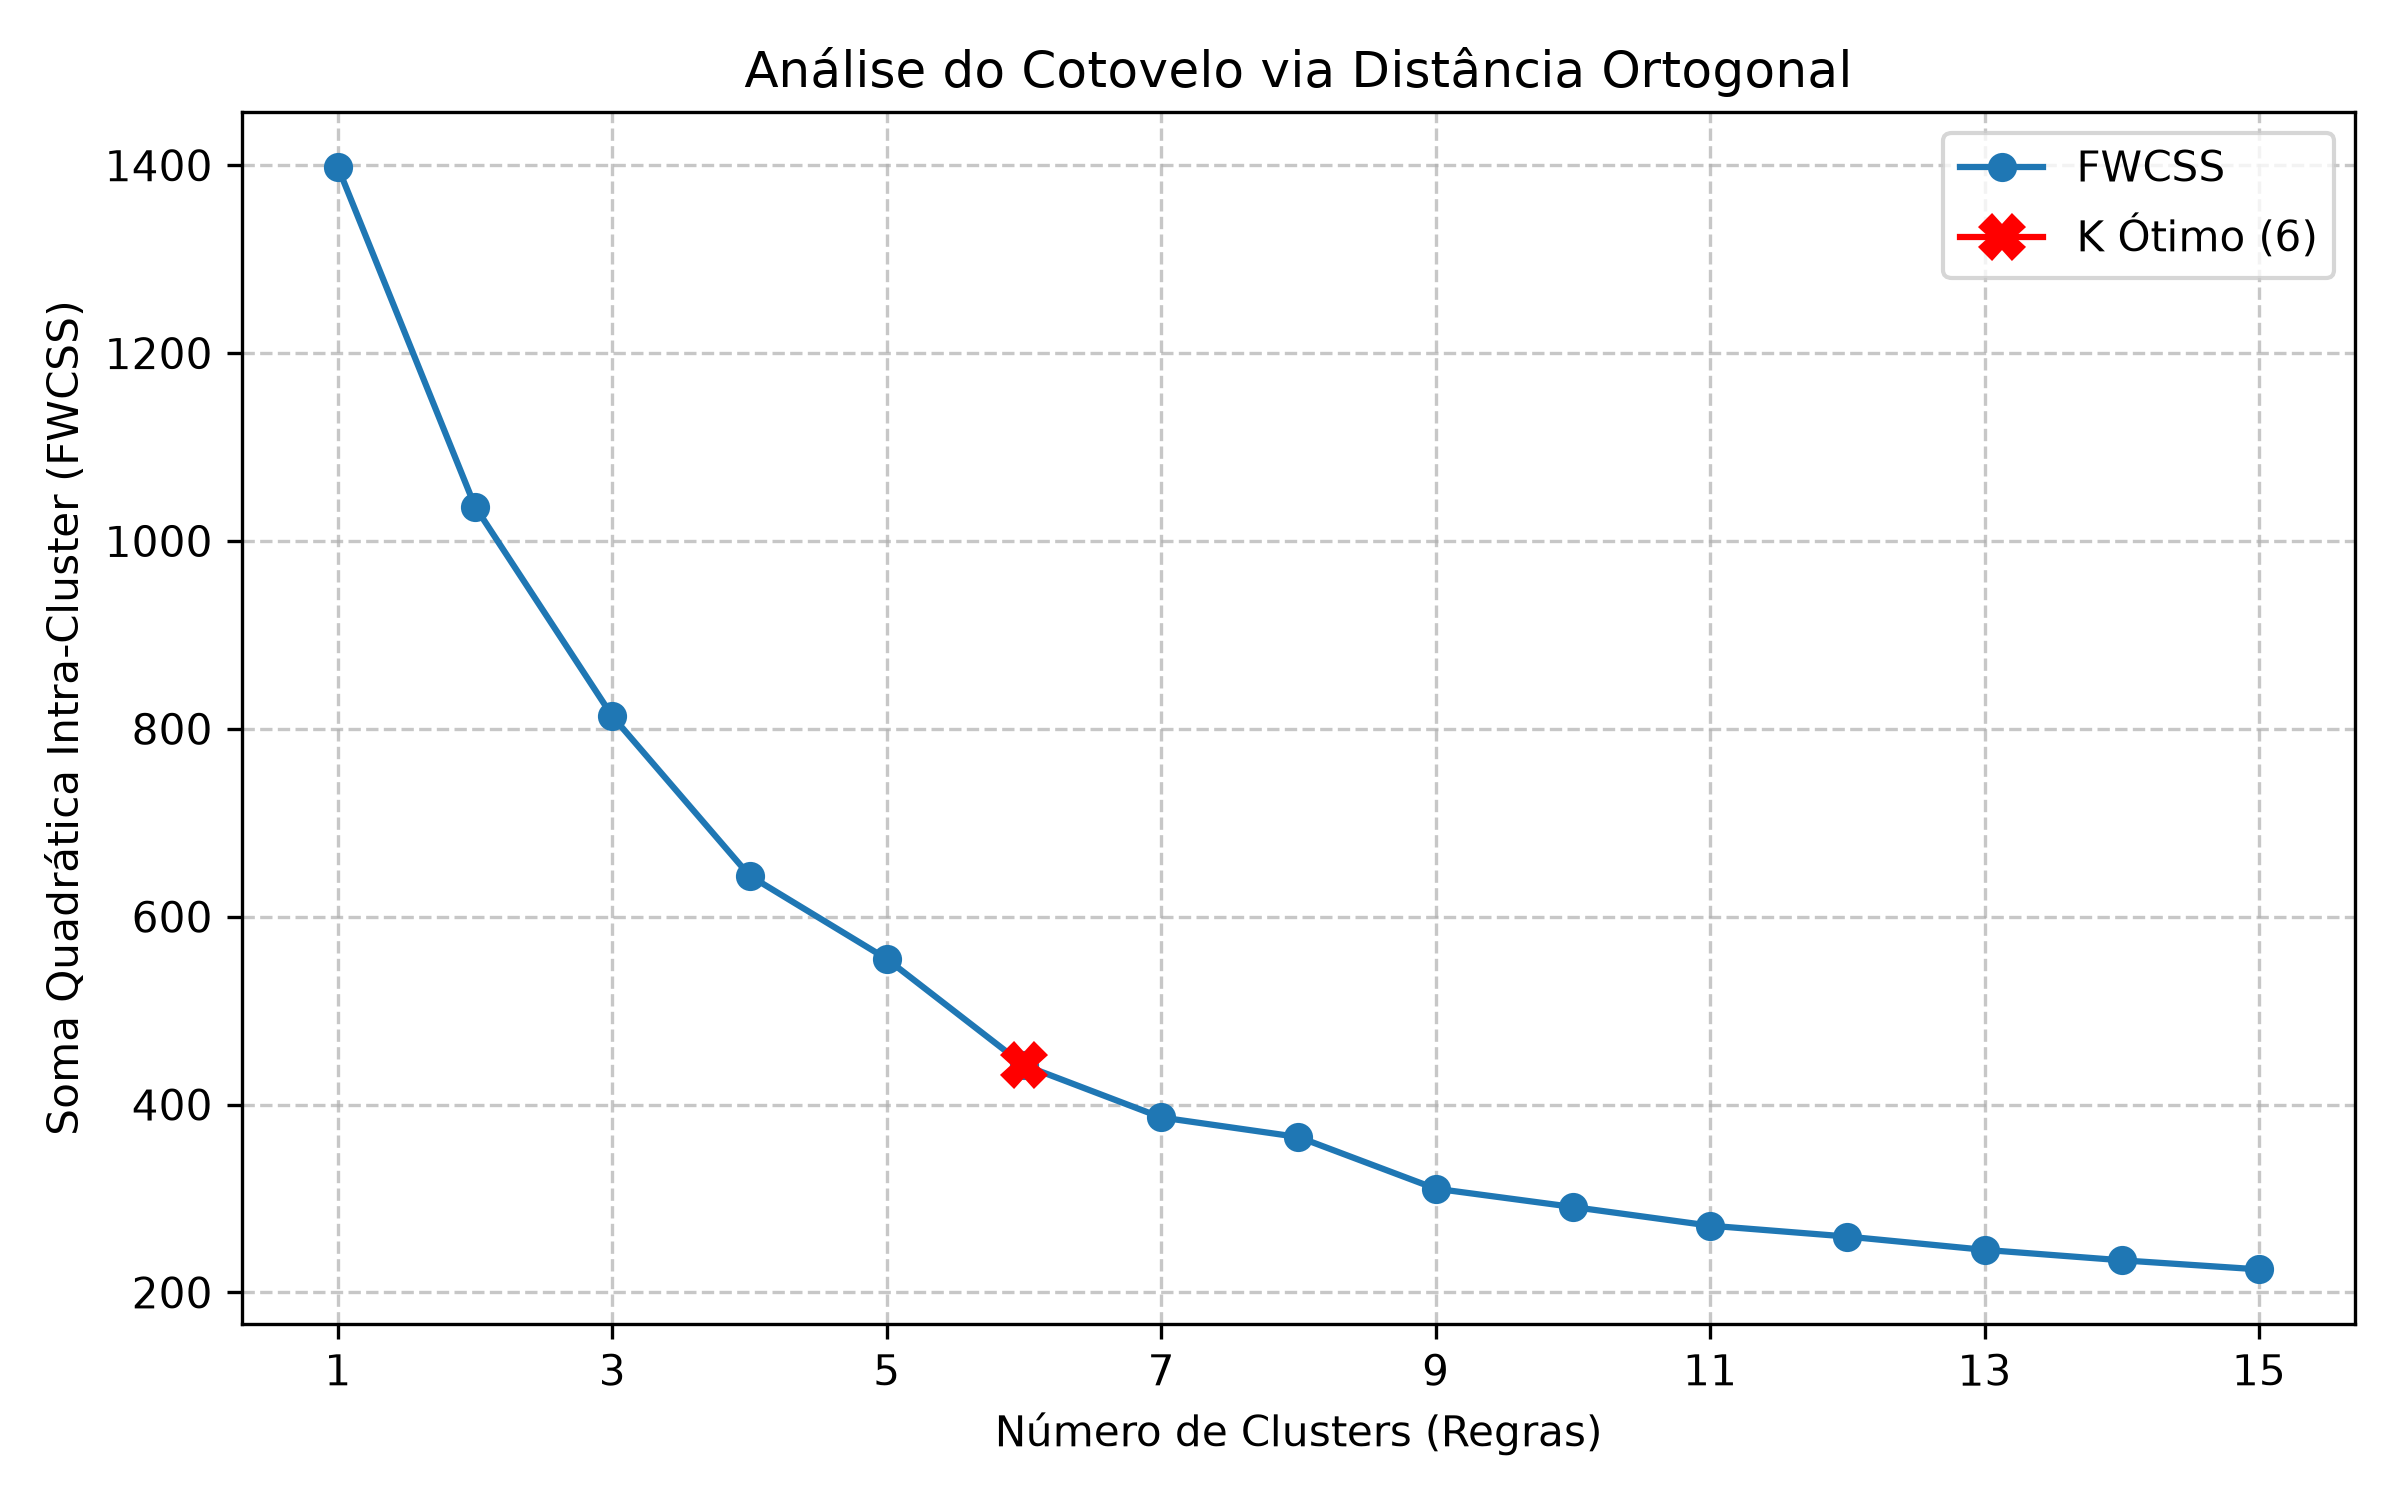
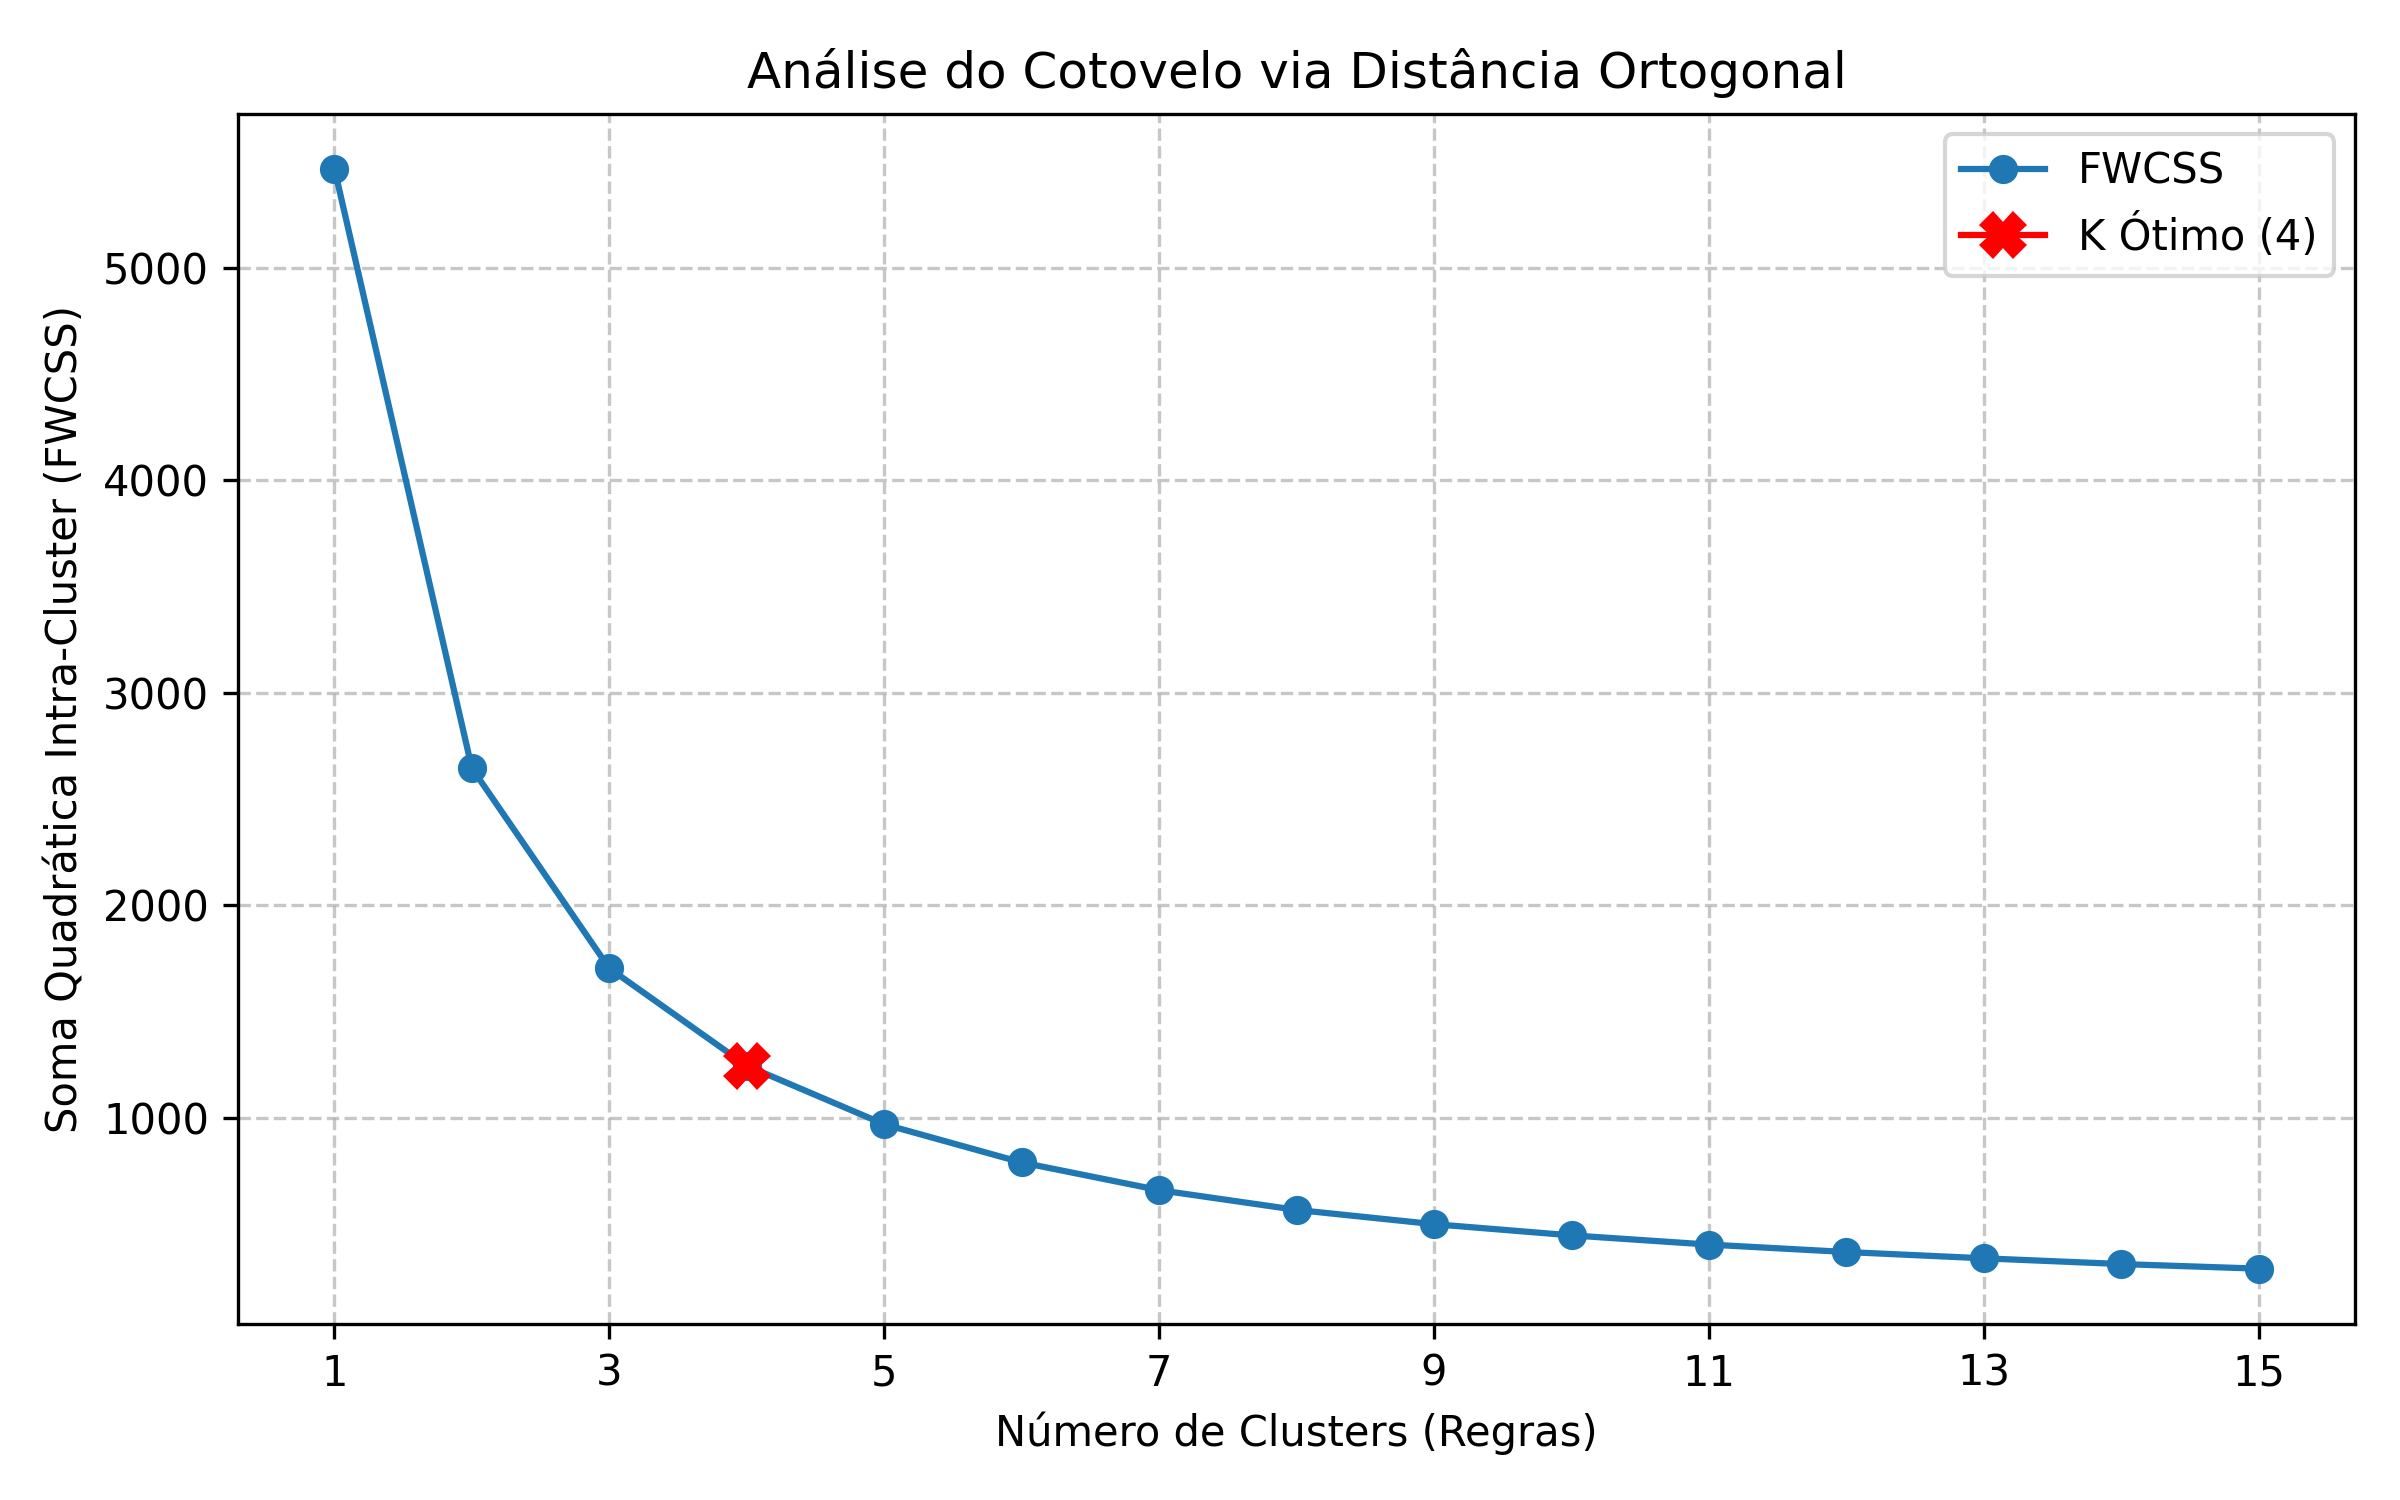
Substitui KMeans classico por FCM (nao sei pq fiz Kmeans qnd o artigo deixa claro q eh FCM)

diff --git a/src/rule_trainer.py b/src/rule_trainer.py
@@ -2,7 +2,6 @@ import csv
 import logging
 import numpy as np
 import pandas as pd
-from sklearn.cluster import KMeans
 from sklearn.preprocessing import StandardScaler, MinMaxScaler
 import skfuzzy as fuzz
 
@@ -53,14 +52,18 @@ class NeuroFuzzyTrainer:
         return df_final
 
     def _find_optimal_k(self, X_scaled: np.ndarray) -> int:
-        logger.info(f"Avaliando K ótimo (limite {self.max_clusters}) via cotovelo ortogonal...")
+        logger.info(f"Avaliando K ótimo (limite {self.max_clusters}) via cotovelo ortogonal (FCM)...")
         wcss = []
         cluster_range = range(1, self.max_clusters + 1)
         
+        # O FCM do skfuzzy exige a matriz transposta: (features, amostras)
+        alldata = X_scaled.T
+        
         for k in cluster_range:
-            kmeans = KMeans(n_clusters=k, init='k-means++', random_state=42, n_init='auto')
-            kmeans.fit(X_scaled)
-            wcss.append(kmeans.inertia_)
+            cntr, u, u0, d, jm, p, fpc = fuzz.cluster.cmeans(
+                alldata, c=k, m=2.0, error=1e-5, maxiter=1000, init=None
+            )
+            wcss.append(jm[-1])
 
         k_norm = MinMaxScaler().fit_transform(np.array(cluster_range).reshape(-1, 1))
         wcss_norm = MinMaxScaler().fit_transform(np.array(wcss).reshape(-1, 1))
@@ -78,12 +81,12 @@ class NeuroFuzzyTrainer:
         k_opt = cluster_range[np.argmax(distancias)]
         
         try:
-            from plotter import plot_metodo_cotovelo
-            plot_metodo_cotovelo(list(cluster_range), wcss, k_opt, "fig_grafico_cotovelo.png")
+            from plotter import plot_elbow
+            plot_elbow(list(cluster_range), wcss, k_opt, "elbow_plot.png")
         except ImportError:
             pass
             
-        logger.info(f"Convergência concluída. K ótimo: {k_opt} regras.")
+        logger.info(f"Convergência do FCM concluída. K ótimo: {k_opt} regras.")
         return k_opt
 
     def _translate_to_fuzzy(self, variable_name: str, value: float) -> str:
@@ -95,7 +98,7 @@ class NeuroFuzzyTrainer:
         return max(memberships, key=memberships.get)
 
     def train_and_export(self, output_csv_path: str, target: str, base_csv_path: str):
-        logger.info(f"Iniciando pipeline Neurofuzzy para: {target.upper()}")
+        logger.info(f"Iniciando pipeline Neurofuzzy (FCM) para: {target.upper()}")
         
         df = self.generate_synthetic_data(num_scenarios=2000)
         
@@ -110,9 +113,15 @@ class NeuroFuzzyTrainer:
         
         k_opt = self._find_optimal_k(X_scaled)
         
-        kmeans = KMeans(n_clusters=k_opt, random_state=42, n_init=10)
-        kmeans.fit(X_scaled)
-        centers = scaler.inverse_transform(kmeans.cluster_centers_)
+        logger.info("Extraindo matriz de centroides via Fuzzy C-Means...")
+        alldata = X_scaled.T
+        cntr, u, u0, d, jm, p, fpc = fuzz.cluster.cmeans(
+            alldata, c=k_opt, m=2.0, error=1e-5, maxiter=1000, init=None
+        )
+        
+        centers = scaler.inverse_transform(cntr)
+        
+        labels = np.argmax(u, axis=0) 
         
         extracted_rules = []
         
@@ -135,7 +144,7 @@ class NeuroFuzzyTrainer:
                 vel_term = self._translate_to_fuzzy('velocidade', center[2])
                 antecedents_str = f"altitude=={alt_term}|taxa_descida=={td_term}|velocidade=={vel_term}"
             
-            mean_output = df[kmeans.labels_ == i][target].mean()
+            mean_output = df[labels == i][target].mean()
             out_term = self._translate_to_fuzzy(target, mean_output)
             
             rule_dict = {

diff --git a/src/fuzzy_engine.py b/src/fuzzy_engine.py
@@ -84,15 +84,22 @@ class HarpiaFuzzyEngine:
             'vento_traves': vento_traves
         }
         
+        # LEME 
         for key, value in telemetry.items():
             try:
                 self.sim_rudder.input[key] = value
             except ValueError:
                 pass
                 
-        self.sim_rudder.compute()
-        rudder_output = self.sim_rudder.output['comando_leme']
-        
+        try:
+            self.sim_rudder.compute()
+            rudder_output = self.sim_rudder.output['comando_leme']
+        except (ValueError, KeyError):
+            # Fail-safe: Se o avião cair num edge case não mapeado, 
+            # o leme assume a posição neutra (0.0)
+            rudder_output = 0.0 
+            
+        # PROFUNDOR
         telemetry['leme_como_entrada'] = rudder_output
         
         for key, value in telemetry.items():
@@ -101,7 +108,11 @@ class HarpiaFuzzyEngine:
             except ValueError:
                 pass
                 
-        self.sim_elevator.compute()
-        elevator_output = self.sim_elevator.output['comando_profundor']
-        
+        try:
+            self.sim_elevator.compute()
+            elevator_output = self.sim_elevator.output['comando_profundor']
+        except (ValueError, KeyError):
+            # Fail-safe de novo
+            elevator_output = 0.0
+            
         return rudder_output, elevator_output
